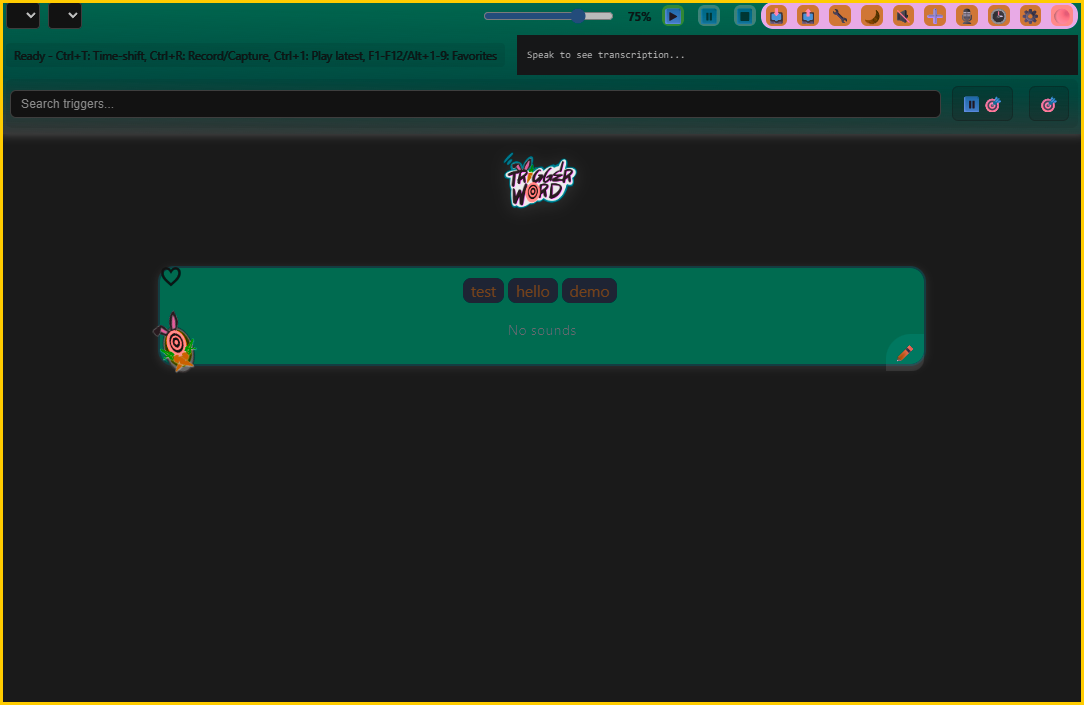
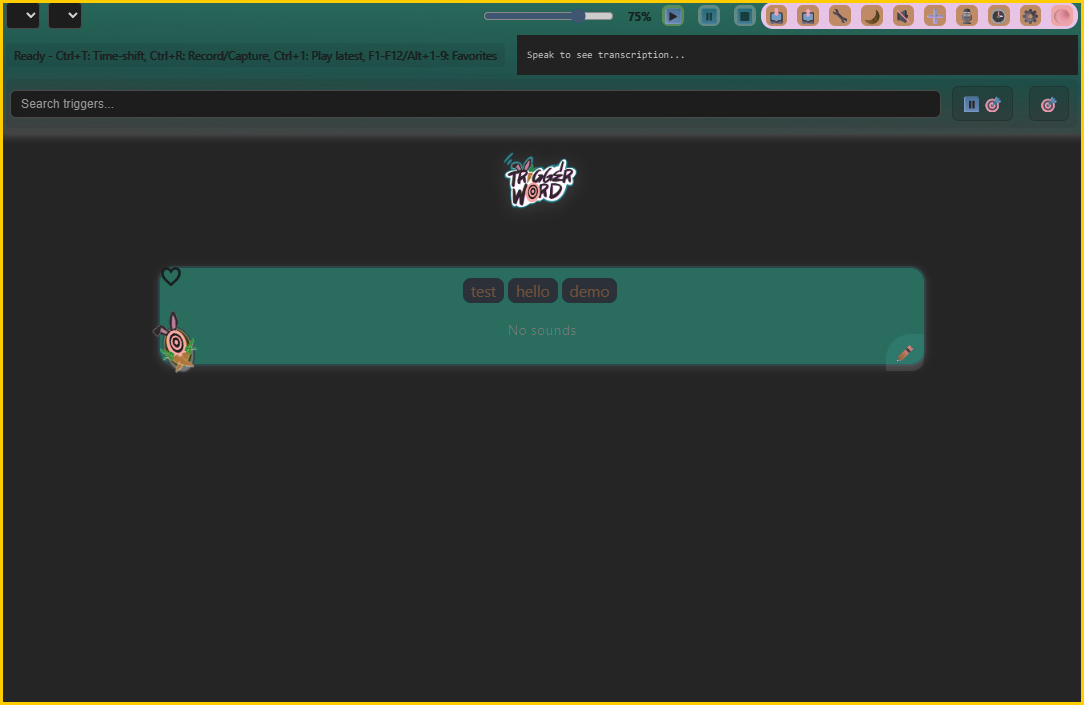
Dark theme: soften the inversion into pleasant neutral dark tones; refresh guide screenshot

Changed region(s): [[0.0, 0.0, 1.0, 0.1872], [0.1218, 0.3745, 0.8524, 0.5305], [0.4566, 0.2184, 0.548, 0.3121]]

diff --git a/index.html b/index.html
@@ -40,7 +40,10 @@
             content: '';
             position: fixed;
             inset: 0;
-            backdrop-filter: invert(0.93) hue-rotate(180deg);
+            /* Not a plain invert: desaturating and lifting brightness turns
+               the flipped colors into soft neutral dark tones instead of the
+               harsh "negative" look. */
+            backdrop-filter: invert(0.9) hue-rotate(180deg) saturate(0.55) brightness(1.12);
             pointer-events: none;
             z-index: 2147483000;
         }
